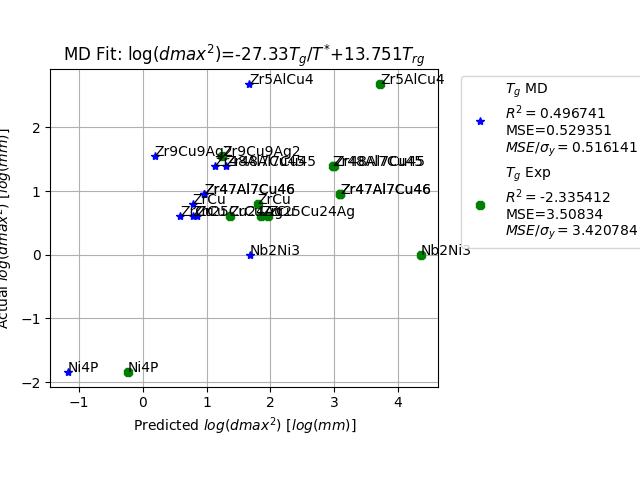
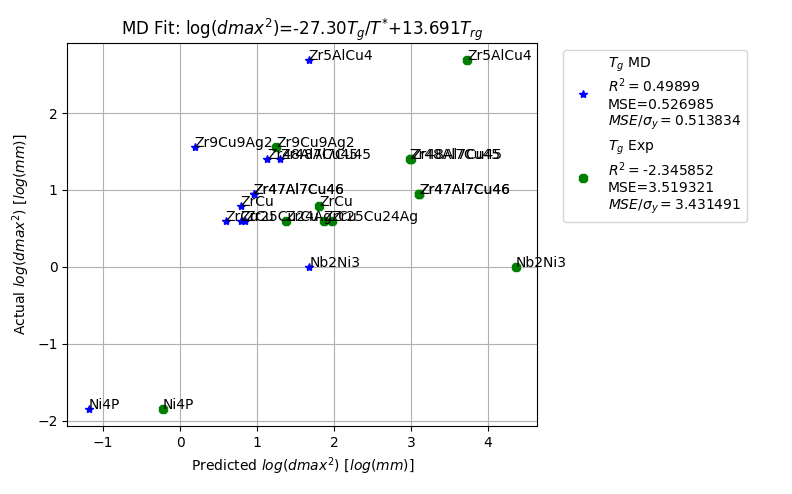
Machine learning on diffusivity cuts

diff --git a/md/scripts/diffusion_vs_viscosity.py b/md/scripts/diffusion_vs_viscosity.py
@@ -9,6 +9,7 @@ density = 10000
 
 df_visc = pd.read_csv('../jobs_data/viscosities.txt')
 df_diff = pd.read_csv('../jobs_data/diffusions.csv')
+df_tg = pd.read_csv('../jobs_data/tg.txt')
 
 
 def find_nearest(array, value):
@@ -33,8 +34,10 @@ df_visc['run'] = df_visc['run'].apply(lambda x: x.split('/')[0])
 df_diff['run'] = df_diff['run'].apply(lambda x: x.split('/')[-4])
 
 df_visc.columns = ['run', 'temperature', 'viscosity']
+df_tg.columns = ['run', 'tg']
 
 df = df_diff.merge(df_visc, on=['run', 'temperature'], how='left')
+df = df.merge(df_tg, on=['run'], how='left')
 
 df['composition'] = df['run'].apply(lambda x: x.split('_')[1])
 
@@ -72,23 +75,28 @@ ax_visc.axhline(visc_hline, linestyle=':', color='k', label='cutoff')
 composition = []
 diff_tcut = []
 visc_tcut = []
+tgs = []
 for group, values in groups:
 
-    x = 1000.0/values['temperature'].values
+    tg = values['tg_mean'].values[0]  # Should be unique
+    temp = values['temperature'].values
+    x = tg/temp
     y = values[r'$ln(\mu)$_mean'].values
     z = values[r'$ln(D)$_mean'].values
+    yovertemp = y-np.log10(temp)
 
     ynew = np.linspace(min(y), max(y), density)
     xnew = np.linspace(min(x), max(x), density)
+    yovertempnew = np.linspace(min(yovertemp), max(yovertemp), density)
 
     fxy = interpolate.interp1d(x, y)
     fxz = interpolate.interp1d(x, z)
-    fyz = interpolate.interp1d(y, z)
+    fyz = interpolate.interp1d(yovertemp, z)
 
-    znew = fyz(ynew)
+    znew = fyz(yovertempnew)
 
     ax.plot(
-            ynew,
+            yovertempnew,
             znew,
             label=group
             )
@@ -116,16 +124,17 @@ for group, values in groups:
     ax_diff.plot(xnew[diff_ind], diff_hline, marker='.', color='k')
 
     composition.append(group)
-    diff_tcut.append(1000*(xnew[diff_ind])**-1)
-    visc_tcut.append(1000*(xnew[visc_ind])**-1)
+    diff_tcut.append(tg*(xnew[diff_ind])**-1)
+    visc_tcut.append(tg*(xnew[visc_ind])**-1)
+    tgs.append(tg)
 
-ax.set_xlabel(r'$ln(\mu)$ $[ln(Pa \cdot s)]$')
+ax.set_xlabel(r'$ln(\mu/Temperature)$ $[ln(Pa \cdot s)]$')
 ax.set_ylabel(r'ln(D) [$ln(*10^-4 cm^{2} s^{-1})$]')
 
-ax_diff.set_xlabel(r'1000/Temperature $[K^{-1}]$')
+ax_diff.set_xlabel(r'$T_{g}/Temperature$ $[K^{-1}]$')
 ax_diff.set_ylabel(r'ln(D) [$ln(*10^-4 cm^{2} s^{-1})$]')
 
-ax_visc.set_xlabel(r'1000/Temperature $[K^{-1}]$')
+ax_visc.set_xlabel(r'$T_{g}/Temperature$ $[K^{-1}]$')
 ax_visc.set_ylabel(r'$ln(\mu)$ $[ln(Pa \cdot s)]$')
 
 ax.legend()
@@ -136,12 +145,17 @@ fig.tight_layout()
 fig_diff.tight_layout()
 fig_visc.tight_layout()
 
-pl.show()
+fig.savefig('../jobs_plots/diffusion_vs_viscosity.png')
+fig_diff.savefig('../jobs_plots/diffusion_vs_temperature.png')
+fig_visc.savefig('../jobs_plots/viscosity_vs_temperature.png')
 
 df = pd.DataFrame({
                    'composition': composition,
                    'diff_tcut': diff_tcut,
                    'visc_tcut': visc_tcut,
+                   'tg': tgs,
                    })
 
-df.to_csv('../jobs_data/tcuts.csv', index=False)
+df.to_csv('../jobs_data/master.csv', index=False)
+
+print(df)

diff --git a/ml/ml_m_trg/scripts/fit_md_diff_tcut.py b/ml/ml_m_trg/scripts/fit_md_diff_tcut.py
@@ -86,7 +86,7 @@ fig, ax = pl.subplots()
 sigs = 6
 label = 'MD Fit: '
 label += r'log($dmax^2$)='
-label += str(coeffs[0])[:sigs]+r'$T_{g}/T^{*}$+'
+label += str(coeffs[0])[:sigs]+r"$T_{g}/T^{'}$+"
 label += str(coeffs[1])[:sigs]+r'$T_{rg}$'
 
 ax.set_title(label)
